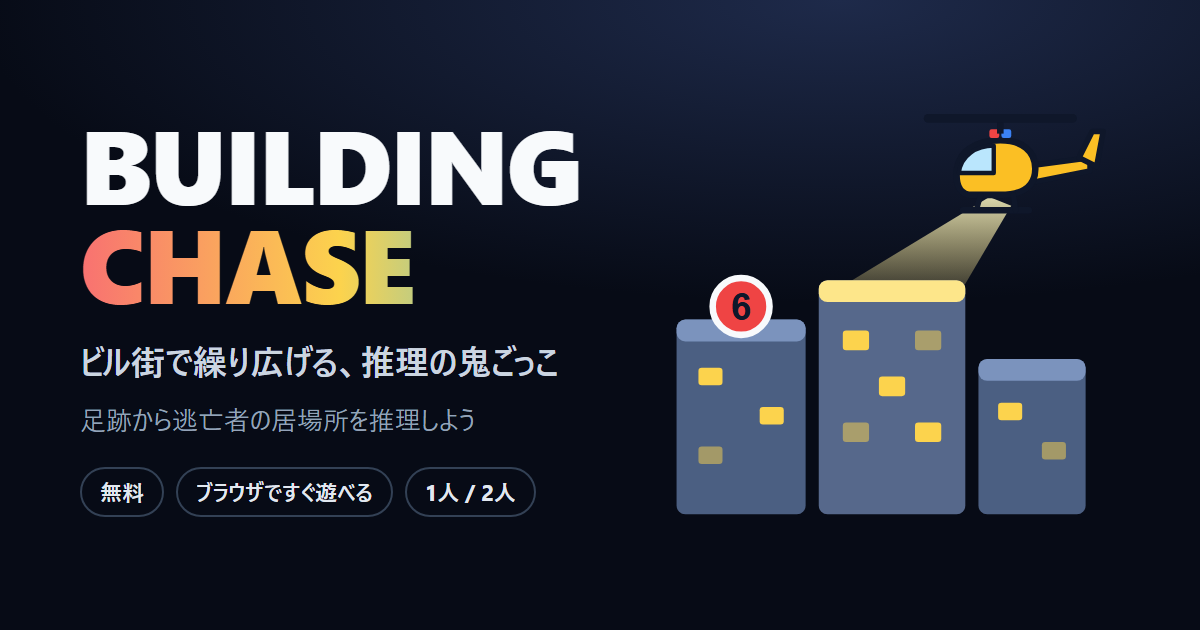
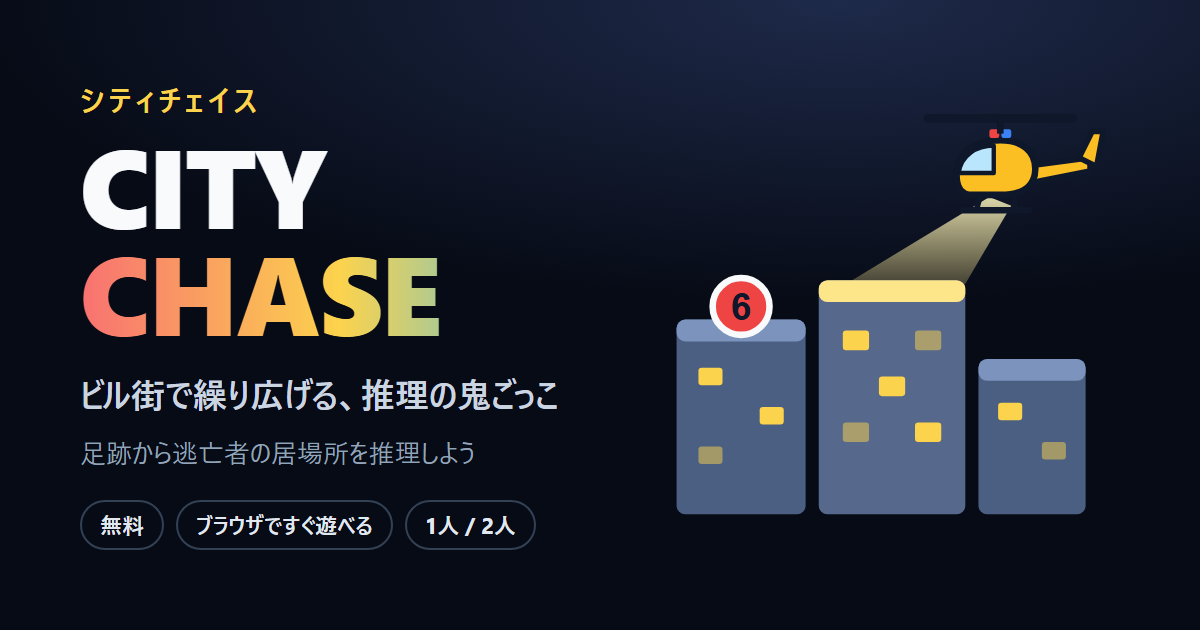
v1.0.1: Rename the game to City Chase
- The game is now called シティチェイス in Japanese and City Chase in
  English: title logo, page title and description, share card and
  image, structured data, crawlable text, home screen name, privacy
  policy and the spec
- The URL, saved-data key and repository name stay the same
- Drop the test that forbade the original game's name

Changed region(s): [[0.0617, 0.2111, 0.4933, 0.8746], [0.0617, 0.1206, 0.2158, 0.181]]

diff --git a/index.html b/index.html
@@ -3,7 +3,7 @@
   <head>
     <meta charset="UTF-8" />
     <meta name="viewport" content="width=device-width, initial-scale=1.0, viewport-fit=cover" />
-    <title>Building Chase | ビル街の推理鬼ごっこ — 無料ブラウザゲーム</title>
+    <title>シティチェイス（City Chase）| ビル街の推理鬼ごっこ — 無料ブラウザゲーム</title>
     <meta
       name="description"
       content="逃亡者はビルからビルへ逃げ、警察はヘリコプター3機で捜索する。残された足跡から居場所を推理する、1人でも2人でも遊べる無料の推理ボードゲーム。スマホ・PCのブラウザですぐ遊べます。"
@@ -17,12 +17,12 @@
     <meta name="theme-color" content="#070b16" />
     <!-- Google Search Console の所有権の確認 -->
     <meta name="google-site-verification" content="tpdmdzFZtgnY3Z6pjSQLo6TUP3nEaCx9HZ00VcoyMpc" />
-    <meta name="apple-mobile-web-app-title" content="Building Chase" />
+    <meta name="apple-mobile-web-app-title" content="シティチェイス" />
 
     <!-- 共有したときの表示（OGP / X のカード） -->
     <meta property="og:type" content="website" />
-    <meta property="og:site_name" content="Building Chase" />
-    <meta property="og:title" content="Building Chase | ビル街の推理鬼ごっこ" />
+    <meta property="og:site_name" content="シティチェイス（City Chase）" />
+    <meta property="og:title" content="シティチェイス（City Chase）| ビル街の推理鬼ごっこ" />
     <meta
       property="og:description"
       content="逃亡者を追うか、警察から逃げ切るか。足跡から居場所を推理する無料のブラウザゲーム。1人でも2人でも遊べます。"
@@ -44,7 +44,8 @@
       {
         "@context": "https://schema.org",
         "@type": "VideoGame",
-        "name": "Building Chase",
+        "name": "シティチェイス",
+        "alternateName": "City Chase",
         "url": "https://building-chase.vercel.app/",
         "image": "https://building-chase.vercel.app/og-image.png",
         "description": "逃亡者はビルからビルへ逃げ、警察はヘリコプター3機で捜索する。残された足跡から居場所を推理する、1人でも2人でも遊べる無料の推理ボードゲーム。",
@@ -91,7 +92,7 @@
 
     <!-- 検索エンジン向けの本文（ゲームの説明と遊び方。JavaScript を実行しなくても読める） -->
     <article class="seo-text" lang="ja">
-      <h1>Building Chase — ビル街で繰り広げる、推理の鬼ごっこ</h1>
+      <h1>シティチェイス（City Chase）— ビル街で繰り広げる、推理の鬼ごっこ</h1>
       <p>
         逃亡者はビルからビルへ逃げ回り、警察はヘリコプター3機でビルを捜索します。逃亡者が残した足跡から、今いる場所を推理して追い詰める、無料の推理ボードゲームです。CPU
         と1人で遊ぶことも、1台の端末で2人で対戦することもできます。スマホ・PCのブラウザですぐ遊べ、ホーム画面に追加すればオフラインでも遊べます。
@@ -118,7 +119,7 @@
       <p><a href="/?lang=en">English</a> ・ <a href="/privacy.html">プライバシーポリシー</a></p>
     </article>
     <article class="seo-text" lang="en">
-      <h2>Building Chase — a game of hide-and-seek and deduction in a night city</h2>
+      <h2>City Chase — a game of hide-and-seek and deduction in a night city</h2>
       <p>
         The runner hops from building to building while the police search with 3 helicopters. Read
         the traces the runner leaves behind to work out where they are now. Play solo against the

diff --git a/public/privacy.html b/public/privacy.html
@@ -3,10 +3,10 @@
   <head>
     <meta charset="UTF-8" />
     <meta name="viewport" content="width=device-width, initial-scale=1.0" />
-    <title>プライバシーポリシー | Building Chase</title>
+    <title>プライバシーポリシー | シティチェイス（City Chase）</title>
     <meta
       name="description"
-      content="Building Chase のプライバシーポリシー（アクセス解析と、端末に保存する設定について）。"
+      content="シティチェイス（City Chase）のプライバシーポリシー（アクセス解析と、端末に保存する設定について）。"
     />
     <link rel="icon" type="image/svg+xml" href="/icon.svg" />
     <meta name="theme-color" content="#070b16" />
@@ -51,7 +51,7 @@
   </head>
   <body>
     <main>
-      <p><a href="/">← Building Chase に戻る</a></p>
+      <p><a href="/">← シティチェイス に戻る</a></p>
 
       <section lang="ja">
         <h1>プライバシーポリシー</h1>
@@ -59,7 +59,7 @@
 
         <h2>集める情報</h2>
         <p>
-          Building Chase は、サイトがどのくらい遊ばれているかを知るために、Vercel Web Analytics
+          シティチェイス は、サイトがどのくらい遊ばれているかを知るために、Vercel Web Analytics
           を使っています。集めるのは、見られたページ、どこから来たか（リンク元）、おおまかな国や地域、端末とブラウザの種類です。Cookie
           は使わず、名前やメールアドレスなど、個人を特定する情報は集めません。
         </p>
@@ -88,10 +88,10 @@
 
         <h2>What we collect</h2>
         <p>
-          Building Chase uses Vercel Web Analytics to understand how much the site is played. It
-          records the pages viewed, where visitors came from (referrer), the approximate country or
-          region, and the type of device and browser. It does not use cookies and does not collect
-          anything that identifies you, such as your name or email address.
+          City Chase uses Vercel Web Analytics to understand how much the site is played. It records
+          the pages viewed, where visitors came from (referrer), the approximate country or region,
+          and the type of device and browser. It does not use cookies and does not collect anything
+          that identifies you, such as your name or email address.
         </p>
 
         <h2>What is stored on your device</h2>

diff --git a/vite.config.ts b/vite.config.ts
@@ -15,8 +15,8 @@ export default defineConfig({
       registerType: 'autoUpdate',
       includeAssets: ['icon.svg', 'apple-touch-icon.png'],
       manifest: {
-        name: 'Building Chase',
-        short_name: 'Building Chase',
+        name: 'シティチェイス（City Chase）',
+        short_name: 'シティチェイス',
         description: 'ビル街で繰り広げる、推理の鬼ごっこ',
         lang: 'ja',
         start_url: '/',

diff --git a/src/ui/screens/TitleScreen.tsx b/src/ui/screens/TitleScreen.tsx
@@ -28,7 +28,7 @@ export function TitleScreen() {
         v{version}
       </span>
       <h1 className="text-center text-5xl leading-none font-black tracking-tight">
-        <span className="block text-slate-100">BUILDING</span>
+        <span className="block text-slate-100">CITY</span>
         <span className="block bg-gradient-to-r from-red-400 via-amber-300 to-sky-400 bg-clip-text text-transparent">
           CHASE
         </span>

diff --git a/src/i18n/i18n.test.ts b/src/i18n/i18n.test.ts
@@ -30,12 +30,4 @@ describe('translations', () => {
       )
     }
   })
-
-  it('never mentions the original board game by name', () => {
-    const text = JSON.stringify([ja, en])
-    // 原作名そのものをリポジトリに書かないよう、文字コードで表す（仕様書 5.7）
-    expect(text).not.toMatch(
-      /\u30b7\u30c6\u30a3\u30c1\u30a7\u30a4\u30b9|\x43\x69\x74\x79\s*\x43\x68\x61\x73\x65/i,
-    )
-  })
 })

diff --git a/src/ui/game/Board.tsx b/src/ui/game/Board.tsx
@@ -127,7 +127,7 @@ export function Board({
       viewBox={viewBox(mode)}
       className={`touch-manipulation select-none ${className || 'h-auto w-full'}`}
       role="img"
-      aria-label="Building Chase board"
+      aria-label="City Chase board"
     >
       <defs>
         <linearGradient id="bc-plate" x1="0" y1="0" x2="0" y2="1">

diff --git a/document.md b/document.md
@@ -1,7 +1,7 @@
-# Building Chase - 要件定義兼実装指示書
+# シティチェイス（City Chase）- 要件定義兼実装指示書
 
 ## 1. プロジェクト概要
-既存のボードゲームをベースにした非対称対戦推理ゲーム『Building Chase』のWeb/スマホ対応アプリケーション。
+ボードゲームをベースにした非対称対戦推理ゲーム『シティチェイス』（英語名 City Chase）のWeb/スマホ対応アプリケーション。
 プレイヤーは「逃亡者（1人）」または「警察（ヘリコプター3機）」を選択し、5×5のビル街で鬼ごっこ×かくれんぼの心理戦を行う。
 
 - **ルールの基準**: 原作ボードゲームの日本語版のルールに準拠（痕跡は移動したときに元いたビルへ残す）。本書と相違がある箇所は本書を優先する（差分は「4.6. 原作からの変更点」に記載）。
@@ -54,7 +54,7 @@
 ## 3. 画面別UI/UX詳細仕様
 
 ### 3.1. タイトル画面 (`TitleScene`)
-- **タイトルロゴ**: "Building Chase"
+- **タイトルロゴ**: "CITY CHASE"（アプリ名は日本語で「シティチェイス」、英語で「City Chase」）
 - **背景のデモ対戦**: ロゴとボタンの後ろで、CPU 同士の対戦が自動で進む（逃亡者の視点で、逃亡者・痕跡・ヘリコプター・捜索の演出を見せる）。音は鳴らさず、操作もできない。文字とボタンが読めるよう暗くする。決着したら次のゲームを始める
 - **バージョン**: 画面の右上に小さく表示（例: `v0.9.3`）
 - **ボタン**:
@@ -241,7 +241,7 @@
 - **State Management**: Zustand
 - **Sound**: Web Audio API による効果音・BGMのプログラム合成（音源ファイル不要。将来差し替え可能な構造にする）
 - **PWA**: vite-plugin-pwa（ホーム画面追加・オフラインプレイ対応）
-  - manifest: 名前 `Building Chase`、`display: standalone`、`orientation: any`（向きは固定しない）、テーマ色・背景色 `#070b16`、説明は日本語（タグライン）
+  - manifest: 名前 `シティチェイス（City Chase）`・短い名前 `シティチェイス`、`display: standalone`、`orientation: any`（向きは固定しない）、テーマ色・背景色 `#070b16`、説明は日本語（タグライン）
   - アイコン: 夜のビル街と、サーチライトでビルを照らす警察のヘリコプター（左のビルに赤の痕跡「6」）。元の絵は `public/icon.svg`（ファビコンにも使う）。PNG は 192 / 512 / maskable 512（絵を中央 80% に縮め、背景を全面に塗る）/ apple-touch-icon 180 を、ブラウザで `icon.svg` を描いて作る
   - Service Worker（Workbox の generateSW）が全ファイル（js / css / html / 画像 / manifest）を保存し、一度開けばオフラインで遊べる。新しい版は次に開いたときに自動で入れ替わる（`registerType: 'autoUpdate'`）
 - **Native App**: Capacitor（iOS / Android）
@@ -317,13 +317,15 @@
 ### 5.6. 多言語対応
 - 画面に表示する文言はすべて翻訳キー経由で表示し、コードに日本語・英語を直接書かない（ゲームロジック `src/core/` には文言を持たせない）。
 - 対象: 全画面のボタン・ラベル・ダイアログ、遊び方画面の説明文、演出テキスト（`逮捕！`・`重要な痕跡を発見！` など）、PWA manifest の説明文。
-- `YOUR TURN` / `ENEMY TURN` / `VICTORY` / `DEFEAT` とタイトルロゴ "Building Chase" は両言語とも英語表記のまま。
+- `YOUR TURN` / `ENEMY TURN` / `VICTORY` / `DEFEAT` とタイトルロゴ "CITY CHASE" は両言語とも英語表記のまま。
 - 言語設定はストレージ層（5.2「保存先」）経由で保存し、未設定時は日本語で起動する。
 - 英語の文言は日本語より長くなりやすいため、ボタン・ヘッダーは英語表示でもレイアウトが崩れないようにする。
 
 ### 5.7. 名称の方針
-- 原作ボードゲームの名前は、アプリ名・画面の文言・ページのタイトルや説明文・SEO・ストアの掲載情報・告知を含め、一般に公開するものには一切使用しない。
-- 集客はゲームの中身を表す言葉で行う（5.8）。
+- ゲーム名は日本語「シティチェイス」、英語「City Chase」（2026-10-18 に「Building Chase」から変更）。
+- 同じ名前のネットゲームが複数あることを確認したうえで、この名前で公開する。収益化（広告・ストア公開）を始めるときに、名前を改めて検討する。
+- URL（`building-chase.vercel.app`）・端末の保存データの名前（`building-chase:`）・リポジトリ名は変えない（共有済みのリンク、Search Console の登録、遊んでいる人の設定を保つため）。
+- 集客はゲームの中身を表す言葉でも行う（5.8）。
 
 ### 5.8. SEO・アクセス解析
 - **狙う検索語**: ゲームの中身を表す言葉（例: 推理ゲーム、鬼ごっこ、かくれんぼ、ケイドロ、ボードゲーム、2人対戦、ブラウザゲーム、無料）。英語は deduction game / hide and seek / cops and robbers / board game など。

diff --git a/ROADMAP.md b/ROADMAP.md
@@ -1,11 +1,11 @@
-# Building Chase - Roadmap
+# シティチェイス（City Chase）- Roadmap
 
 - **進め方**: まず Web 版を完成させて一般公開し、反響を計測する。反響があった場合にスマホアプリ化して Google Play / App Store で公開する
 - **当面のゴール**: Web での一般公開（v1.0.0）と反響の計測（Phase 11）
 - **一般公開**: 2026-10-18 に v1.0.0 として公開した（https://building-chase.vercel.app ）
 - **動作確認**: 各フェーズの完了確認はブラウザ（PC + スマホ幅のレスポンシブ表示）で行う。Vercel のデプロイ（スマホ実機のブラウザ）でも確認する
 - **優先度**: 🔴 P0 = 遊べるゲームの成立・公開に必須 / 🟡 P1 = リリース品質に必要 / 🟢 P2 = 仕上げ・あると良い / ⏸ 条件付き = 反響があった場合に着手
-- **名称**: 原作ボードゲームの名前は、アプリ名・画面・説明文・ストア・SEO を含め一切使用しない（[document.md](document.md) 5.7）
+- **名称**: ゲーム名は「シティチェイス / City Chase」（2026-10-18 に変更。収益化のときに改めて検討する。[document.md](document.md) 5.7）
 - **バージョン**: push ごとに PATCH +1、フェーズ完了で MINOR +1、Web での一般公開で v1.0.0（[document.md](document.md) 5.1.1 / [CHANGELOG.md](CHANGELOG.md)）
 - 仕様は [document.md](document.md) を参照
 - 本番（ブラウザ版）: https://building-chase.vercel.app

diff --git a/CHANGELOG.md b/CHANGELOG.md
@@ -2,6 +2,12 @@
 
 バージョン規則は [document.md](document.md) 5.1.1 を参照（push ごとに PATCH +1 / フェーズ完了で MINOR +1 / Web での一般公開で v1.0.0）。
 
+## [1.0.1] - 2026-10-18
+### Changed
+- ゲーム名を「Building Chase」から「シティチェイス」（英語名「City Chase」）に変えた。タイトルのロゴ（CITY CHASE）、ページのタイトル・説明文・共有カードと画像・構造化データ・検索エンジン向けの本文、ホーム画面に追加したときの名前、プライバシーポリシー、仕様書
+- URL（`building-chase.vercel.app`）、端末の保存データの名前、リポジトリ名は変えない（共有済みのリンク、Search Console の登録、遊んでいる人の設定を保つため）
+- 原作名が使われていないかを確かめるテストを外した（名前の方針を変えたため。仕様書 5.7）
+
 ## [1.0.0] - 2026-10-18
 Web での一般公開。
 
